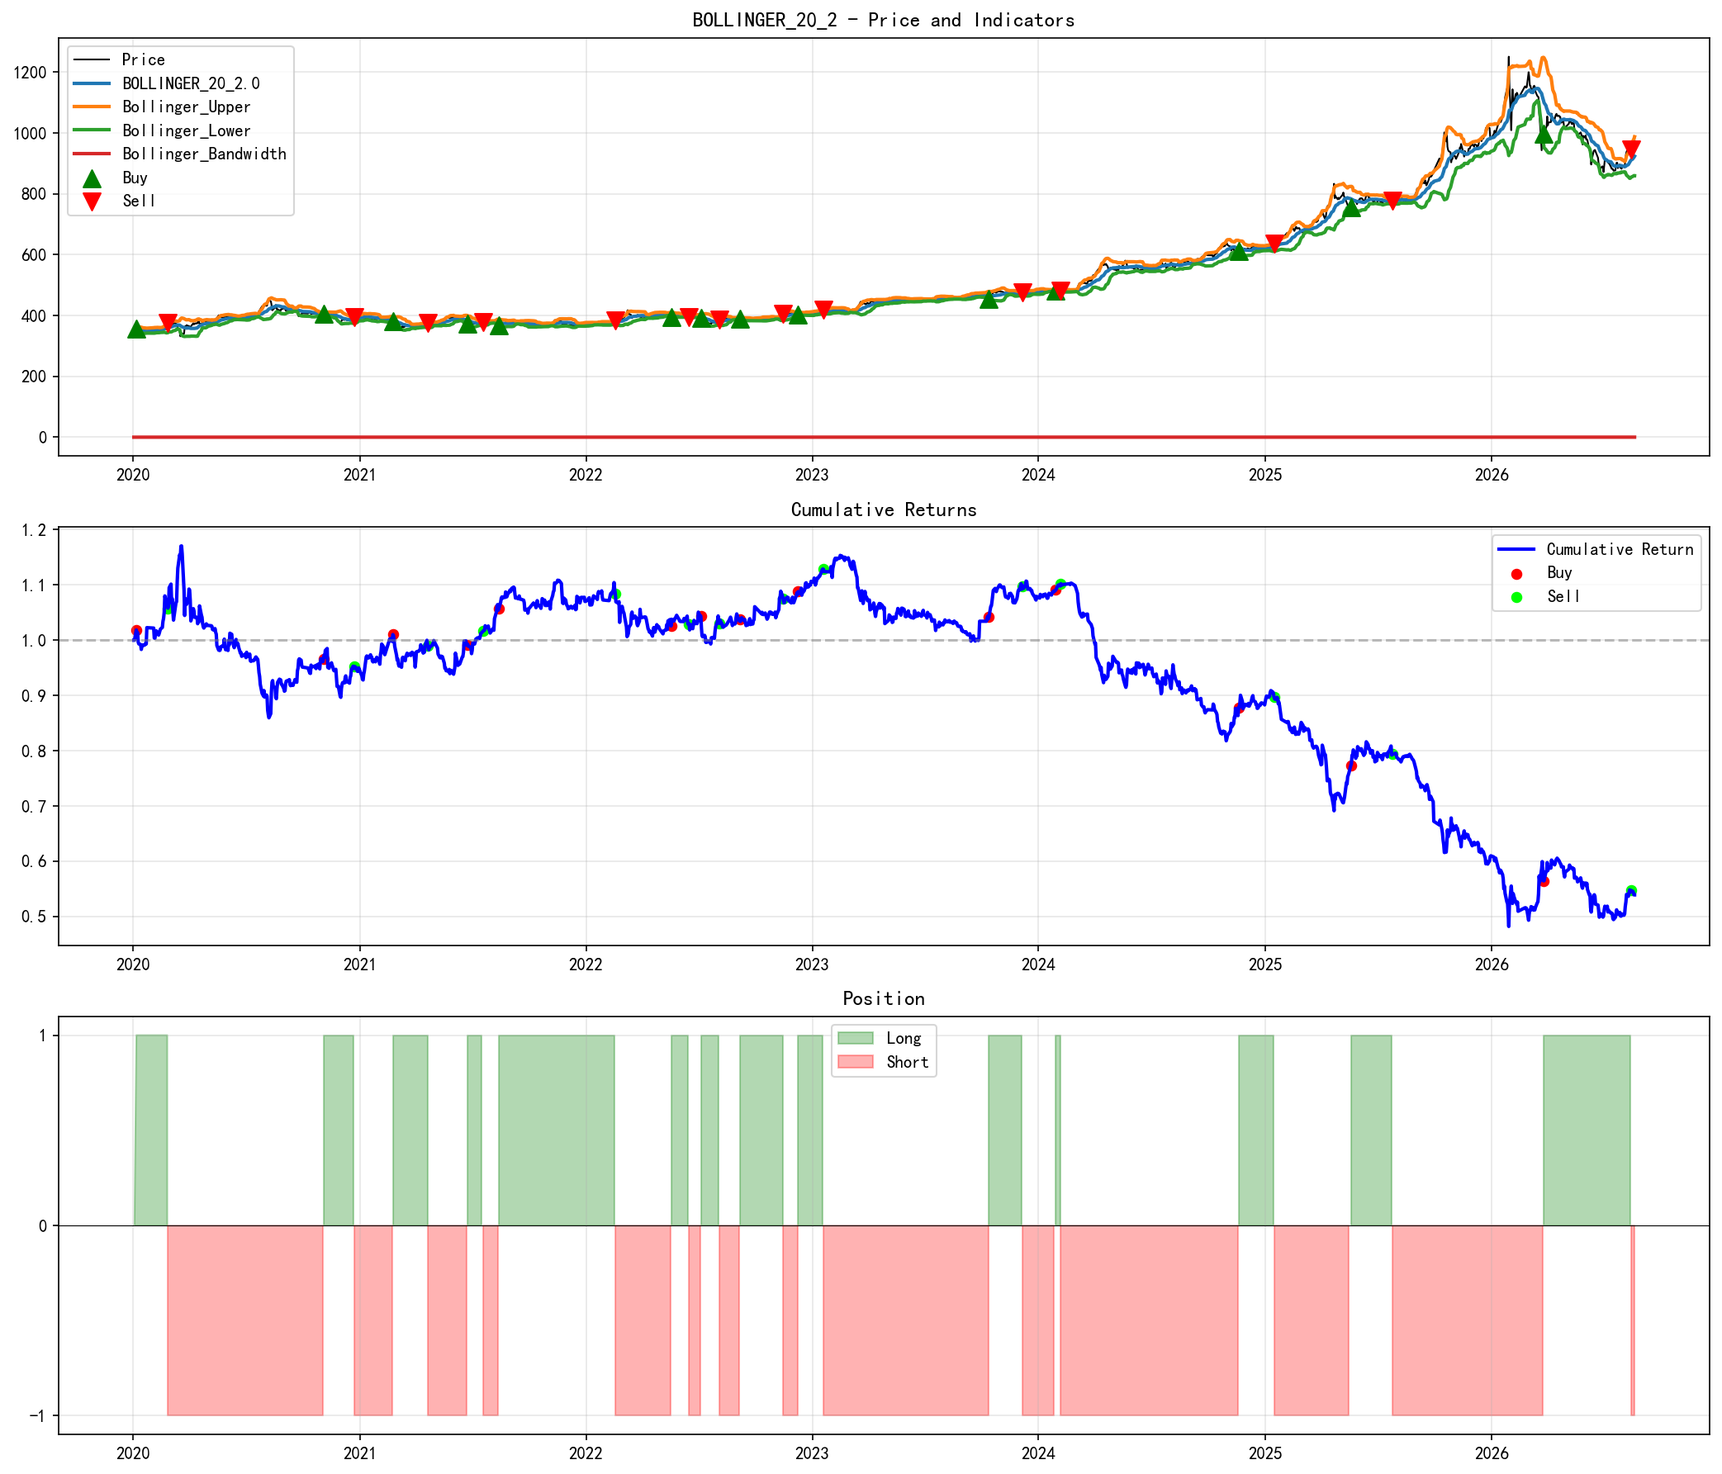
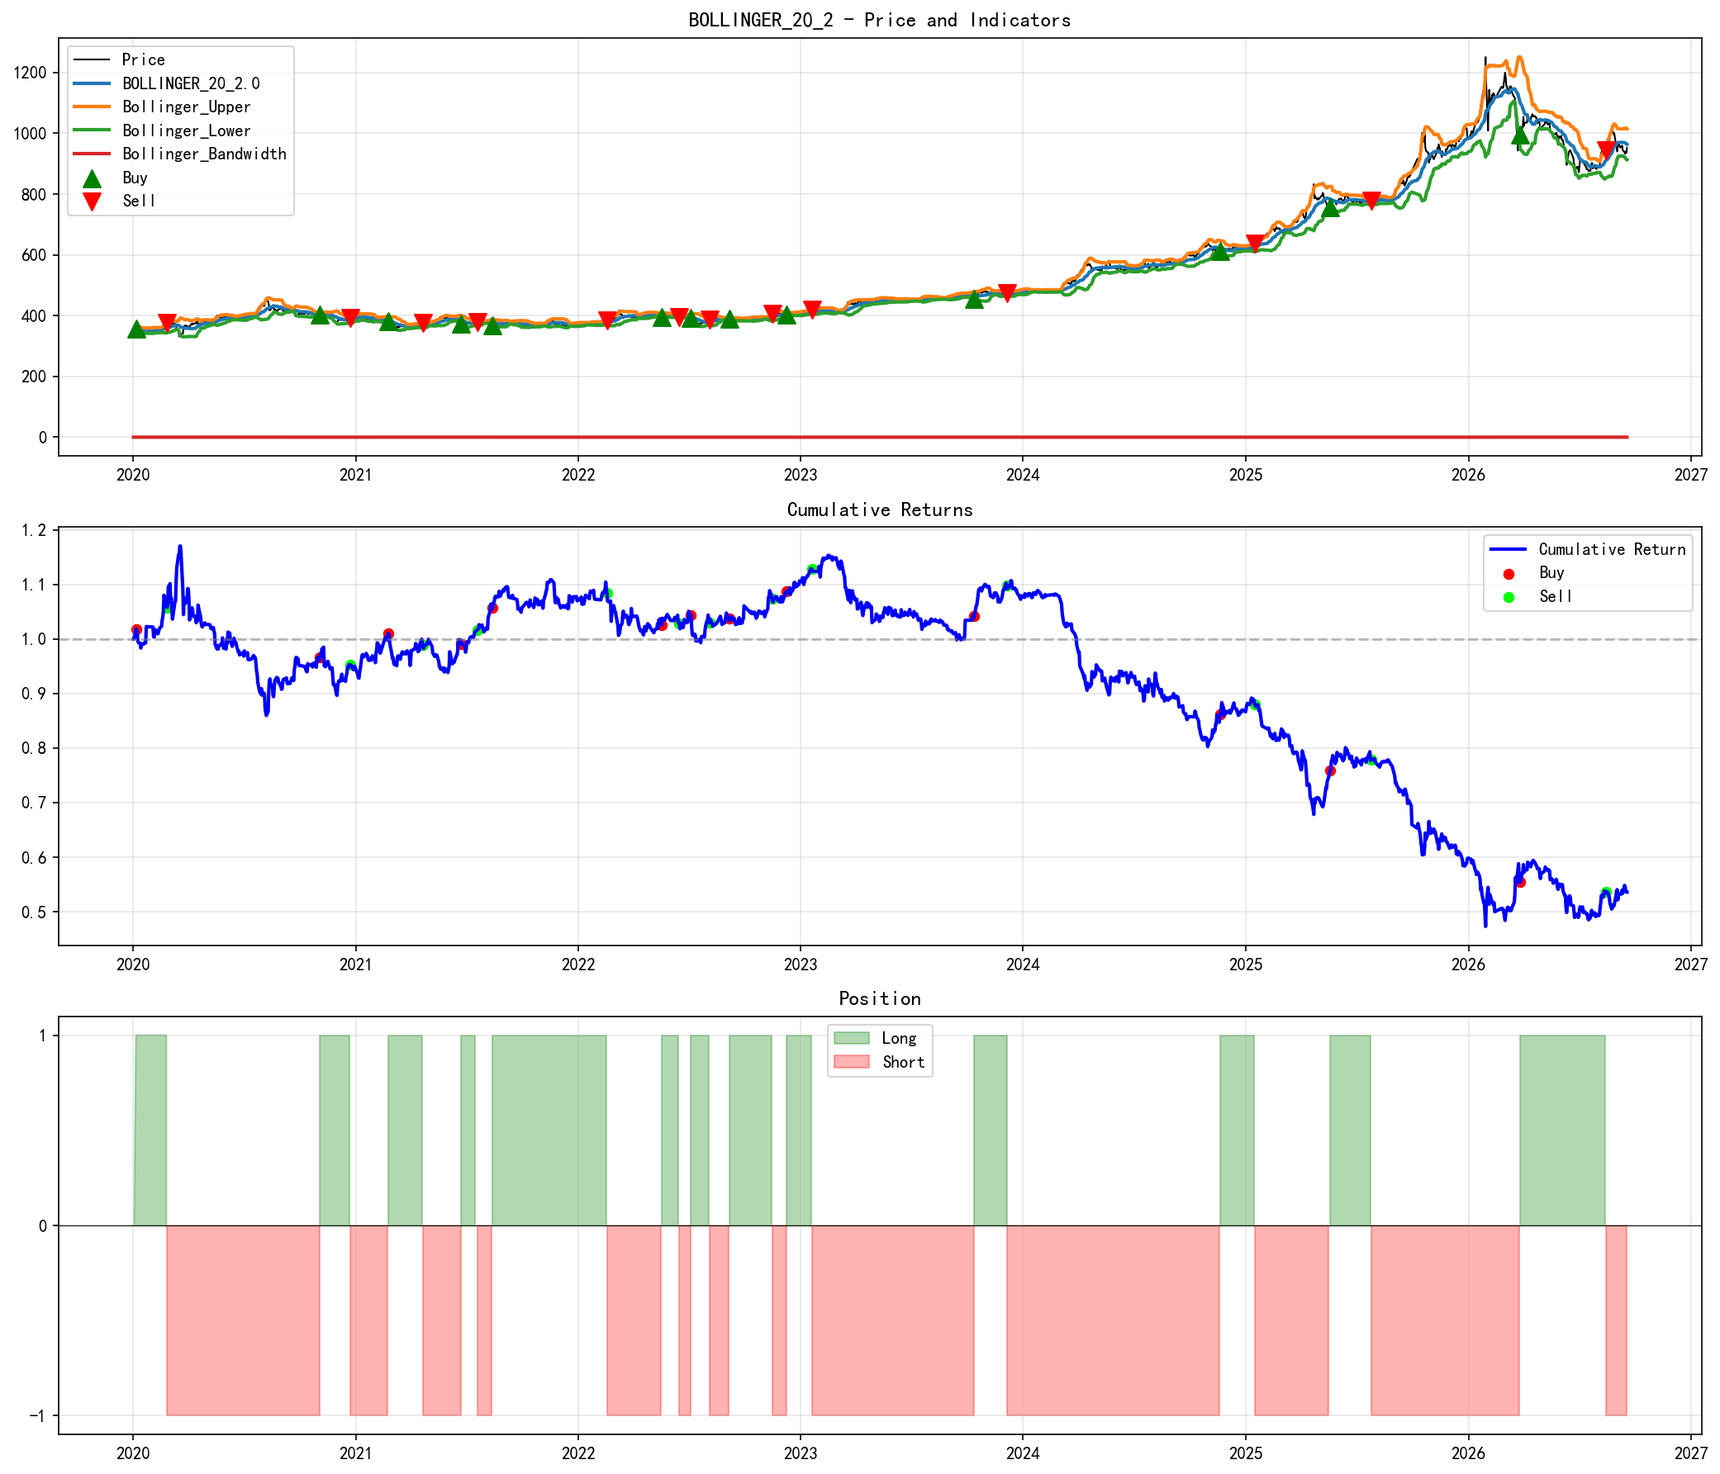
data: refresh strategy and margin pages to 2026-09-18
- charts (png+webp) and stats regenerated from latest trading day via update_local_website.py and sync_to_website.py
- README: data update workflow documented (sync scripts, png+webp pairing, fail-loud replacements)

diff --git a/project-quant-trading.html b/project-quant-trading.html
@@ -73,7 +73,7 @@
           <div class="stat-label"><span data-lang="cn">回测周期</span><span data-lang="en">Backtest Period</span></div>
         </div>
         <div class="stat-card">
-          <div class="stat-number">158<span style="font-size:1.2rem">%</span></div>
+          <div class="stat-number">162<span style="font-size:1.2rem">%</span></div>
           <div class="stat-label"><span data-lang="cn">最高累积收益</span><span data-lang="en">Best Cumulative Return</span></div>
         </div>
       </div>
@@ -138,93 +138,93 @@
           <tbody>
             <tr>
               <td><strong>TMA (10/30/90)</strong></td>
-              <td class="highlight">158.30%</td>
-              <td class="highlight">15.39%</td>
+              <td class="highlight">161.65%</td>
+              <td class="highlight">15.41%</td>
               <td class="negative">-25.73%</td>
               <td>10</td>
               <td>50.00%</td>
-              <td>16.12%</td>
+              <td>16.29%</td>
             </tr>
             <tr>
               <td><strong>EWMA Long-Only</strong></td>
-              <td class="highlight">136.72%</td>
-              <td class="highlight">13.88%</td>
+              <td class="highlight">124.95%</td>
+              <td class="highlight">12.84%</td>
               <td class="negative">-14.82%</td>
-              <td>90</td>
-              <td>48.89%</td>
-              <td>1.07%</td>
+              <td>92</td>
+              <td>47.83%</td>
+              <td>0.99%</td>
             </tr>
             <tr>
               <td><strong>TMA (5/20/60)</strong></td>
-              <td class="highlight">135.95%</td>
-              <td class="highlight">13.82%</td>
-              <td class="negative">-25.85%</td>
-              <td>14</td>
-              <td>42.86%</td>
-              <td>10.77%</td>
+              <td class="highlight">120.11%</td>
+              <td class="highlight">12.48%</td>
+              <td class="negative">-26.41%</td>
+              <td>15</td>
+              <td>40.00%</td>
+              <td>9.60%</td>
             </tr>
             <tr>
               <td><strong>EWMA Long-Short</strong></td>
-              <td class="highlight">92.86%</td>
-              <td class="highlight">10.41%</td>
+              <td class="highlight">76.99%</td>
+              <td class="highlight">8.88%</td>
               <td class="negative">-19.29%</td>
-              <td>180</td>
-              <td>37.78%</td>
-              <td>0.44%</td>
+              <td>185</td>
+              <td>37.30%</td>
+              <td>0.38%</td>
             </tr>
             <tr>
               <td><strong>Donchian (50)</strong></td>
-              <td class="highlight">80.71%</td>
-              <td class="highlight">9.33%</td>
+              <td class="highlight">75.70%</td>
+              <td class="highlight">8.76%</td>
               <td class="negative">-27.76%</td>
-              <td>12</td>
-              <td>50.00%</td>
-              <td>8.07%</td>
+              <td>13</td>
+              <td>46.15%</td>
+              <td>7.23%</td>
             </tr>
             <tr>
               <td><strong>Donchian (20)</strong></td>
-              <td class="highlight">74.01%</td>
-              <td class="highlight">8.71%</td>
+              <td class="highlight">70.86%</td>
+              <td class="highlight">8.31%</td>
               <td class="negative">-22.67%</td>
               <td>23</td>
               <td>47.83%</td>
-              <td>2.88%</td>
+              <td>2.80%</td>
             </tr>
             <tr>
               <td><strong>MACD</strong></td>
-              <td class="highlight">27.85%</td>
-              <td class="highlight">3.77%</td>
+              <td class="highlight">24.93%</td>
+              <td class="highlight">3.37%</td>
               <td class="negative">-23.24%</td>
-              <td>135</td>
-              <td>37.78%</td>
-              <td>0.26%</td>
+              <td>136</td>
+              <td>37.50%</td>
+              <td>0.24%</td>
             </tr>
             <tr>
               <td><strong>RSI</strong></td>
-              <td class="negative">-37.70%</td>
-              <td class="negative">-6.89%</td>
+              <td class="negative">-36.89%</td>
+              <td class="negative">-6.63%</td>
               <td class="negative">-62.42%</td>
               <td>11</td>
-              <td>45.45%</td>
-              <td>-5.59%</td>
+              <td>54.55%</td>
+              <td>-5.42%</td>
             </tr>
             <tr>
               <td><strong>Bollinger (20, 2.0)</strong></td>
-              <td class="negative">-46.10%</td>
-              <td class="negative">-8.90%</td>
-              <td class="negative">-58.84%</td>
-              <td>28</td>
-              <td>53.57%</td>
-              <td>-2.04%</td>
+              <td class="negative">-46.43%</td>
+              <td class="negative">-8.88%</td>
+              <td class="negative">-59.61%</td>
+              <td>26</td>
+              <td>57.69%</td>
+              <td>-2.21%</td>
             </tr>
             <tr>
               <td><strong>Bollinger (20, 1.5)</strong></td>
-              <td class="negative">-64.45%</td>
-              <td class="negative">-14.44%</td>
-              <td class="negative">-68.41%</td>
-              <td>36</td>
-              <td>52.78%</td>
-              <td>-2.79%</td>
+              <td class="negative">-62.37%</td>
+              <td class="negative">-13.55%</td>
+              <td class="negative">-69.09%</td>
+              <td>34</td>
+              <td>52.94%</td>
+              <td>-2.75%</td>
             </tr>
           </tbody>
         </table>
@@ -243,44 +243,44 @@
       <p class="section-subtitle fade-in" style="text-align:center"><span data-lang="cn">点击图片可放大查看</span><span data-lang="en">Click to enlarge</span></p>
       <div class="gallery">
         <div class="gallery-item fade-in">
-          <picture><source srcset="assets/plots/TMA_5_20_60.webp" type="image/webp"><img src="assets/plots/TMA_5_20_60.png" alt="TMA 5/20/60" width="2085" height="1785" loading="lazy" decoding="async"></picture>
-          <div class="gallery-caption">TMA (5/20/60) — <span data-lang="cn">累积收益 135.95%</span><span data-lang="en">Cumulative Return 135.95%</span></div>
+          <picture><source srcset="assets/plots/TMA_5_20_60.webp" type="image/webp"><img src="assets/plots/TMA_5_20_60.png" alt="TMA 5/20/60" width="2082" height="1785" loading="lazy" decoding="async"></picture>
+          <div class="gallery-caption">TMA (5/20/60) — <span data-lang="cn">累积收益 120.11%</span><span data-lang="en">Cumulative Return 120.11%</span></div>
         </div>
         <div class="gallery-item fade-in">
-          <picture><source srcset="assets/plots/TMA_10_30_90.webp" type="image/webp"><img src="assets/plots/TMA_10_30_90.png" alt="TMA 10/30/90" width="2085" height="1785" loading="lazy" decoding="async"></picture>
-          <div class="gallery-caption">TMA (10/30/90) — <span data-lang="cn">累积收益 158.30%</span><span data-lang="en">Cumulative Return 158.30%</span></div>
+          <picture><source srcset="assets/plots/TMA_10_30_90.webp" type="image/webp"><img src="assets/plots/TMA_10_30_90.png" alt="TMA 10/30/90" width="2082" height="1785" loading="lazy" decoding="async"></picture>
+          <div class="gallery-caption">TMA (10/30/90) — <span data-lang="cn">累积收益 161.65%</span><span data-lang="en">Cumulative Return 161.65%</span></div>
         </div>
         <div class="gallery-item fade-in">
-          <picture><source srcset="assets/plots/EWMA_LONG_ONLY_30.webp" type="image/webp"><img src="assets/plots/EWMA_LONG_ONLY_30.png" alt="EWMA Long-Only" width="2085" height="1785" loading="lazy" decoding="async"></picture>
-          <div class="gallery-caption">EWMA Long-Only — <span data-lang="cn">累积收益 136.72%</span><span data-lang="en">Cumulative Return 136.72%</span></div>
+          <picture><source srcset="assets/plots/EWMA_LONG_ONLY_30.webp" type="image/webp"><img src="assets/plots/EWMA_LONG_ONLY_30.png" alt="EWMA Long-Only" width="2082" height="1785" loading="lazy" decoding="async"></picture>
+          <div class="gallery-caption">EWMA Long-Only — <span data-lang="cn">累积收益 124.95%</span><span data-lang="en">Cumulative Return 124.95%</span></div>
         </div>
         <div class="gallery-item fade-in">
-          <picture><source srcset="assets/plots/DONCHIAN_20.webp" type="image/webp"><img src="assets/plots/DONCHIAN_20.png" alt="Donchian 20" width="2085" height="1785" loading="lazy" decoding="async"></picture>
-          <div class="gallery-caption">Donchian (20) — <span data-lang="cn">累积收益 74.01%</span><span data-lang="en">Cumulative Return 74.01%</span></div>
+          <picture><source srcset="assets/plots/DONCHIAN_20.webp" type="image/webp"><img src="assets/plots/DONCHIAN_20.png" alt="Donchian 20" width="2082" height="1785" loading="lazy" decoding="async"></picture>
+          <div class="gallery-caption">Donchian (20) — <span data-lang="cn">累积收益 70.86%</span><span data-lang="en">Cumulative Return 70.86%</span></div>
         </div>
         <div class="gallery-item fade-in">
-          <picture><source srcset="assets/plots/DONCHIAN_50.webp" type="image/webp"><img src="assets/plots/DONCHIAN_50.png" alt="Donchian 50" width="2085" height="1785" loading="lazy" decoding="async"></picture>
-          <div class="gallery-caption">Donchian (50) — <span data-lang="cn">累积收益 80.71%</span><span data-lang="en">Cumulative Return 80.71%</span></div>
+          <picture><source srcset="assets/plots/DONCHIAN_50.webp" type="image/webp"><img src="assets/plots/DONCHIAN_50.png" alt="Donchian 50" width="2082" height="1785" loading="lazy" decoding="async"></picture>
+          <div class="gallery-caption">Donchian (50) — <span data-lang="cn">累积收益 75.70%</span><span data-lang="en">Cumulative Return 75.70%</span></div>
         </div>
         <div class="gallery-item fade-in">
-          <picture><source srcset="assets/plots/EWMA_30.webp" type="image/webp"><img src="assets/plots/EWMA_30.png" alt="EWMA Long-Short" width="2085" height="1785" loading="lazy" decoding="async"></picture>
-          <div class="gallery-caption">EWMA Long-Short — <span data-lang="cn">累积收益 92.86%</span><span data-lang="en">Cumulative Return 92.86%</span></div>
+          <picture><source srcset="assets/plots/EWMA_30.webp" type="image/webp"><img src="assets/plots/EWMA_30.png" alt="EWMA Long-Short" width="2082" height="1785" loading="lazy" decoding="async"></picture>
+          <div class="gallery-caption">EWMA Long-Short — <span data-lang="cn">累积收益 76.99%</span><span data-lang="en">Cumulative Return 76.99%</span></div>
         </div>
         <div class="gallery-item fade-in">
           <picture><source srcset="assets/plots/MACD_12_26_9.webp" type="image/webp"><img src="assets/plots/MACD_12_26_9.png" alt="MACD" width="2084" height="1785" loading="lazy" decoding="async"></picture>
-          <div class="gallery-caption">MACD (12/26/9) — <span data-lang="cn">累积收益 27.85%</span><span data-lang="en">Cumulative Return 27.85%</span></div>
+          <div class="gallery-caption">MACD (12/26/9) — <span data-lang="cn">累积收益 24.93%</span><span data-lang="en">Cumulative Return 24.93%</span></div>
         </div>
         <div class="gallery-item fade-in">
           <picture><source srcset="assets/plots/RSI_14_30_70.webp" type="image/webp"><img src="assets/plots/RSI_14_30_70.png" alt="RSI" width="2085" height="1785" loading="lazy" decoding="async"></picture>
-          <div class="gallery-caption">RSI (14, 30/70) — <span data-lang="cn">累积收益 -37.70%</span><span data-lang="en">Cumulative Return -37.70%</span></div>
+          <div class="gallery-caption">RSI (14, 30/70) — <span data-lang="cn">累积收益 -36.89%</span><span data-lang="en">Cumulative Return -36.89%</span></div>
         </div>
         <div class="gallery-item fade-in">
-          <picture><source srcset="assets/plots/BOLLINGER_20_2.webp" type="image/webp"><img src="assets/plots/BOLLINGER_20_2.png" alt="Bollinger 2.0" width="2085" height="1785" loading="lazy" decoding="async"></picture>
-          <div class="gallery-caption">Bollinger (20, 2.0) — <span data-lang="cn">累积收益 -46.10%</span><span data-lang="en">Cumulative Return -46.10%</span></div>
+          <picture><source srcset="assets/plots/BOLLINGER_20_2.webp" type="image/webp"><img src="assets/plots/BOLLINGER_20_2.png" alt="Bollinger 2.0" width="2082" height="1785" loading="lazy" decoding="async"></picture>
+          <div class="gallery-caption">Bollinger (20, 2.0) — <span data-lang="cn">累积收益 -46.43%</span><span data-lang="en">Cumulative Return -46.43%</span></div>
         </div>
         <div class="gallery-item fade-in">
-          <picture><source srcset="assets/plots/BOLLINGER_20_1.5.webp" type="image/webp"><img src="assets/plots/BOLLINGER_20_1.5.png" alt="Bollinger 1.5" width="2085" height="1785" loading="lazy" decoding="async"></picture>
-          <div class="gallery-caption">Bollinger (20, 1.5) — <span data-lang="cn">累积收益 -64.45%</span><span data-lang="en">Cumulative Return -64.45%</span></div>
+          <picture><source srcset="assets/plots/BOLLINGER_20_1.5.webp" type="image/webp"><img src="assets/plots/BOLLINGER_20_1.5.png" alt="Bollinger 1.5" width="2082" height="1785" loading="lazy" decoding="async"></picture>
+          <div class="gallery-caption">Bollinger (20, 1.5) — <span data-lang="cn">累积收益 -62.37%</span><span data-lang="en">Cumulative Return -62.37%</span></div>
         </div>
       </div>
     </div>

diff --git a/project-margin-model.html b/project-margin-model.html
@@ -94,7 +94,7 @@
           <div class="stat-label"><span data-lang="cn">VaR 置信水平</span><span data-lang="en">VaR Levels</span></div>
         </div>
         <div class="stat-card">
-          <div class="stat-number">~7,996</div>
+          <div class="stat-number">~8,038</div>
           <div class="stat-label"><span data-lang="cn">总交易日数据</span><span data-lang="en">Total Trading Days</span></div>
         </div>
         <div class="stat-card">
@@ -165,11 +165,11 @@
       <div class="gallery" style="grid-template-columns: repeat(auto-fit, minmax(400px, 1fr))">
         <div class="gallery-item fade-in">
           <picture><source srcset="assets/plots/margin_model_Au.webp" type="image/webp"><img src="assets/plots/margin_model_Au.png" alt="Au Backtest" width="3220" height="1269" loading="lazy" decoding="async"></picture>
-          <div class="gallery-caption"><span data-lang="cn">黄金 (Au) — 2008-01-09 ~ 2026-08-20</span><span data-lang="en">Gold (Au) — 2008-01-09 ~ 2026-08-20</span></div>
+          <div class="gallery-caption"><span data-lang="cn">黄金 (Au) — 2008-01-09 ~ 2026-09-18</span><span data-lang="en">Gold (Au) — 2008-01-09 ~ 2026-09-18</span></div>
         </div>
         <div class="gallery-item fade-in">
           <picture><source srcset="assets/plots/margin_model_Ag.webp" type="image/webp"><img src="assets/plots/margin_model_Ag.png" alt="Ag Backtest" width="3220" height="1269" loading="lazy" decoding="async"></picture>
-          <div class="gallery-caption"><span data-lang="cn">白银 (Ag) — 2012-05-10 ~ 2026-08-20</span><span data-lang="en">Silver (Ag) — 2012-05-10 ~ 2026-08-20</span></div>
+          <div class="gallery-caption"><span data-lang="cn">白银 (Ag) — 2012-05-10 ~ 2026-09-18</span><span data-lang="en">Silver (Ag) — 2012-05-10 ~ 2026-09-18</span></div>
         </div>
       </div>
     </div>
@@ -197,32 +197,32 @@
               <td><strong>Au</strong></td>
               <td><span data-lang="cn">方法一（含阈值）</span><span data-lang="en">Method 1 (w/ threshold)</span></td>
               <td>87</td>
-              <td>4,524</td>
-              <td>1.92%</td>
+              <td>4,316</td>
+              <td>2.02%</td>
               <td>8</td>
             </tr>
             <tr>
               <td><strong>Au</strong></td>
               <td><span data-lang="cn">方法二（η=1.8）</span><span data-lang="en">Method 2 (η=1.8)</span></td>
               <td>39</td>
-              <td>4,524</td>
-              <td>0.86%</td>
+              <td>4,316</td>
+              <td>0.90%</td>
               <td>5</td>
             </tr>
             <tr>
               <td><strong>Ag</strong></td>
               <td><span data-lang="cn">方法一（含阈值）</span><span data-lang="en">Method 1 (w/ threshold)</span></td>
               <td>57</td>
-              <td>3,472</td>
-              <td>1.64%</td>
-              <td>10</td>
+              <td>3,264</td>
+              <td>1.75%</td>
+              <td>9</td>
             </tr>
             <tr>
               <td><strong>Ag</strong></td>
               <td><span data-lang="cn">方法二（η=1.8）</span><span data-lang="en">Method 2 (η=1.8)</span></td>
               <td>27</td>
-              <td>3,472</td>
-              <td>0.78%</td>
+              <td>3,264</td>
+              <td>0.83%</td>
               <td>1</td>
             </tr>
           </tbody>

diff --git a/README.md b/README.md
@@ -2,7 +2,7 @@
 
 JQ 的个人网站 — [jiqinghuang.github.io](https://jiqinghuang.github.io/)
 
-> 最后更新: 2026-08-05
+> 最后更新: 2026-09-18
 
 ## 页面结构
 
@@ -26,6 +26,22 @@ JQ 的个人网站 — [jiqinghuang.github.io](https://jiqinghuang.github.io/)
 ## 技术栈
 
 纯静态站点：HTML5 + CSS3 + Vanilla JS，GitHub Pages 部署。无框架，无构建步骤。
+
+## 数据更新（由本地脚本自动完成）
+
+两个项目页的图表与数字**不手改**，由相邻仓库的同步脚本自动刷新（仅本地文件，不自动推送 Git）：
+
+```bash
+# 量化策略页：跑全部策略 → 复制图表 → 更新 project-quant-trading.html
+python ../trading_strategy/update_local_website.py
+
+# 保证金模型页：跑模型管道 → 复制图表 → 更新 project-margin-model.html
+python ../margin_model/sync_to_website.py
+```
+
+- 图表写入 `assets/plots/`，**png 与 webp 成对更新**（页面 `<picture>` 以 webp 优先）
+- 页面统计数字、回测表格、`<img>` 宽高由脚本替换，替换失败会报错而不是静默跳过
+- 数据源为 Wind 商品期货指数 parquet，由 `trading_strategy/excel_to_parquet.py` 增量更新
 
 ## 相关项目
 
